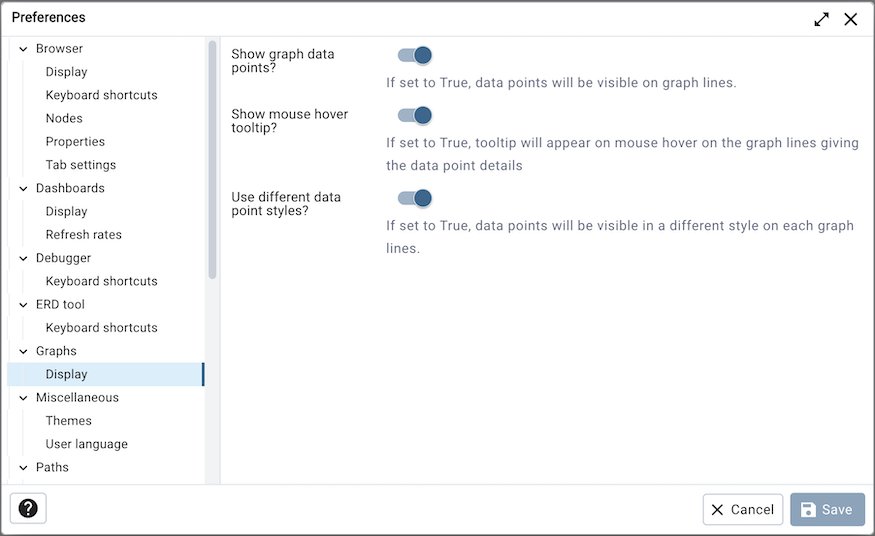
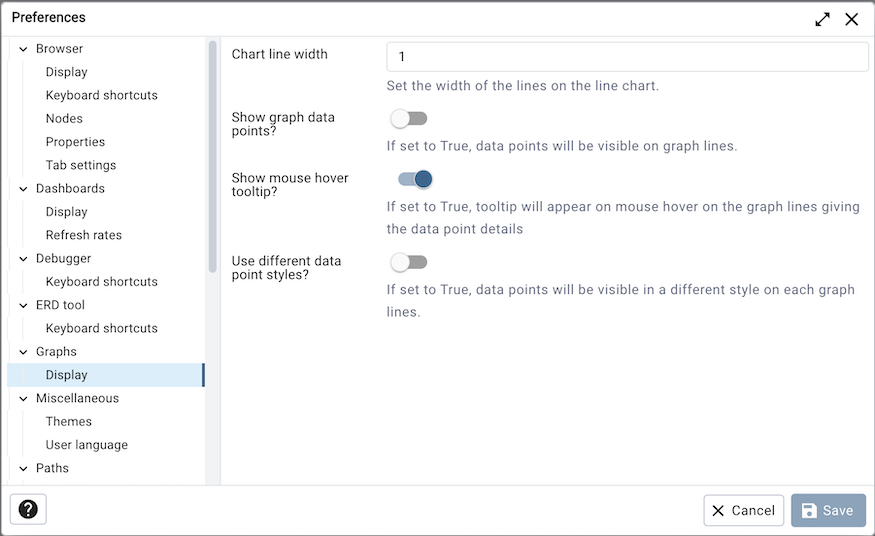
The following issues were fixed in Graph Visualiser:
1) Allow the user to set the row limit and chart line width.
2) Zoom should only be applied to X-axis, not both.
3) On clicking the 'Generate' button, the chart should return to its original zoom level.
4) Negative values are not displayed.

refs #7485

diff --git a/web/pgadmin/tools/sqleditor/static/js/components/sections/GraphVisualiser.jsx b/web/pgadmin/tools/sqleditor/static/js/components/sections/GraphVisualiser.jsx
@@ -69,12 +69,16 @@ function GenerateGraph({graphType, graphData, ...props}) {
   let showDataPoints = queryToolCtx.preferences.graphs['graph_data_points'];
   let useDiffPointStyle = queryToolCtx.preferences.graphs['use_diff_point_style'];
   let showToolTip = queryToolCtx.preferences.graphs['graph_mouse_track'];
+  let lineBorderWidth = queryToolCtx.preferences.graphs['graph_line_border_width'];
 
   // Below options are used by chartjs while rendering the graph
   const options = useMemo(()=>({
     elements: {
       point: {
         radius: showDataPoints ? DATA_POINT_SIZE : 0,
+      },
+      line: {
+        borderWidth: lineBorderWidth,
       },
     },
     plugins: {
@@ -100,7 +104,7 @@ function GenerateGraph({graphType, graphData, ...props}) {
             borderWidth: 1,
             backgroundColor: 'rgba(54, 162, 235, 0.3)'
           },
-          mode: 'xy',
+          mode: 'x',
         },
       }
     },
@@ -249,12 +253,16 @@ export function GraphVisualiser({initColumns}) {
   const onGenerate = async ()=>{
     setLoaderText(gettext('Fetching all the records...'));
 
+    onResetZoom();
+
     let url = url_for('sqleditor.fetch_all_from_start', {
-      'trans_id': queryToolCtx.params.trans_id
+      'trans_id': queryToolCtx.params.trans_id,
+      'limit': queryToolCtx.preferences.sqleditor.row_limit
     });
 
     let res = await queryToolCtx.api.get(url);
 
+    setLoaderText(gettext('Rendering data points...'));
     // Set the Graph Data
     setGraphData(
       getGraphDataSet(res.data.data.result, columns, xaxis, yaxis, queryToolCtx)
@@ -265,7 +273,7 @@ export function GraphVisualiser({initColumns}) {
 
   // Reset the zoom to normal
   const onResetZoom = ()=> {
-    chartObjRef.current.resetZoom();
+    chartObjRef?.current?.resetZoom();
   };
 
   // Download button callback

diff --git a/web/pgadmin/dashboard/static/js/Graphs.jsx b/web/pgadmin/dashboard/static/js/Graphs.jsx
@@ -233,6 +233,7 @@ export default function Graphs({preferences, sid, did, pageVisible, enablePoll=t
           errorMsg={errorMsg}
           showTooltip={preferences['graph_mouse_track']}
           showDataPoints={preferences['graph_data_points']}
+          lineBorderWidth={preferences['graph_line_border_width']}
           isDatabase={did > 0}
         />
       }
@@ -265,6 +266,9 @@ export function GraphsWrapper(props) {
       point: {
         radius: props.showDataPoints ? DATA_POINT_SIZE : 0,
       },
+      line: {
+        borderWidth: props.lineBorderWidth,
+      },
     },
     plugins: {
       legend: {
@@ -289,8 +293,11 @@ export function GraphsWrapper(props) {
       x: {
         reverse: true,
       },
+      y: {
+        min: 0,
+      }
     },
-  }), [props.showTooltip, props.showDataPoints]);
+  }), [props.showTooltip, props.showDataPoints, props.lineBorderWidth]);
   const updateOptions = useMemo(()=>({duration: 0}), []);
 
   const onInitCallback = useCallback(
@@ -353,5 +360,6 @@ GraphsWrapper.propTypes = {
   errorMsg: PropTypes.string,
   showTooltip: PropTypes.bool.isRequired,
   showDataPoints: PropTypes.bool.isRequired,
+  lineBorderWidth: PropTypes.number.isRequired,
   isDatabase: PropTypes.bool.isRequired,
 };

diff --git a/web/regression/javascript/dashboard/graphs_spec.js b/web/regression/javascript/dashboard/graphs_spec.js
@@ -109,6 +109,7 @@ describe('Graphs.js', ()=>{
         show_graphs: true,
         graph_data_points: true,
         graph_mouse_track: true,
+        graph_line_border_width: 2
       };
 
       graphComp = mount(<Graphs preferences={dashboardPref} sid={sid} did={did} enablePoll={false} pageVisible={true} />);
@@ -137,6 +138,7 @@ describe('Graphs.js', ()=>{
         show_graphs: true,
         graph_data_points: true,
         graph_mouse_track: true,
+        graph_line_border_width: 2
       };
       graphComp.setProps({preferences: dashboardPref});
       let found = graphComp.find('[data-testid="graph-poll-delay"]');

diff --git a/web/pgadmin/static/js/chartjs/index.jsx b/web/pgadmin/static/js/chartjs/index.jsx
@@ -47,7 +47,6 @@ const defaultOptions = {
   elements: {
     line: {
       tension: 0,
-      borderWidth: 2,
       fill: false,
     },
   },
@@ -66,7 +65,6 @@ const defaultOptions = {
       },
     },
     y: {
-      min: 0,
       ticks: {
         callback: function(label) {
           if (Math.floor(label) === label) {

diff --git a/web/regression/javascript/dashboard/graphs_wrapper_spec.js b/web/regression/javascript/dashboard/graphs_wrapper_spec.js
@@ -34,6 +34,7 @@ describe('<GraphsWrapper /> component', ()=>{
       errorMsg={null}
       showTooltip={true}
       showDataPoints={true}
+      lineBorderWidth={2}
       isDatabase={false} />);
   });
 

diff --git a/web/pgadmin/tools/sqleditor/utils/query_tool_preferences.py b/web/pgadmin/tools/sqleditor/utils/query_tool_preferences.py
@@ -12,7 +12,7 @@ from flask_babel import gettext
 from pgadmin.utils.constants import PREF_LABEL_DISPLAY,\
     PREF_LABEL_KEYBOARD_SHORTCUTS, PREF_LABEL_EXPLAIN, PREF_LABEL_OPTIONS,\
     PREF_LABEL_EDITOR, PREF_LABEL_CSV_TXT, PREF_LABEL_RESULTS_GRID,\
-    PREF_LABEL_SQL_FORMATTING
+    PREF_LABEL_SQL_FORMATTING, PREF_LABEL_GRAPH_VISUALISER
 from pgadmin.utils import SHORTCUT_FIELDS as shortcut_fields, \
     ACCESSKEY_FIELDS as accesskey_fields
 
@@ -805,4 +805,14 @@ def register_query_tool_preferences(self):
             'Specifies whether or not to insert spaces instead of tabs '
             'when the tab key or auto-indent are used.'
         )
+    )
+
+    self.row_limit = self.preference.register(
+        'graph_visualiser', 'row_limit',
+        gettext("Row Limit"), 'integer',
+        10000, min_val=1, category_label=PREF_LABEL_GRAPH_VISUALISER,
+        help_str=gettext('This setting specifies the maximum number of rows '
+                         'that will be plotted on a chart. Increasing this '
+                         'limit may impact performance if charts are plotted '
+                         'with very high numbers of rows.')
     )

diff --git a/web/pgadmin/tools/sqleditor/__init__.py b/web/pgadmin/tools/sqleditor/__init__.py
@@ -1089,11 +1089,11 @@ def fetch(trans_id, fetch_all=None):
 
 
 @blueprint.route(
-    '/fetch_all_from_start/<int:trans_id>', methods=["GET"],
+    '/fetch_all_from_start/<int:trans_id>/<int:limit>', methods=["GET"],
     endpoint='fetch_all_from_start'
 )
 @login_required
-def fetch_all_from_start(trans_id):
+def fetch_all_from_start(trans_id, limit=-1):
     """
     This function is used to fetch all the records from start and reset
     the cursor back to it's previous position.
@@ -1111,7 +1111,7 @@ def fetch_all_from_start(trans_id):
         # Reset the cursor to start to fetch all the records.
         conn.reset_cursor_at(0)
 
-        status, result = conn.async_fetchmany_2darray(-1)
+        status, result = conn.async_fetchmany_2darray(limit)
         if not status:
             status = 'Error'
         else:

diff --git a/web/pgadmin/dashboard/__init__.py b/web/pgadmin/dashboard/__init__.py
@@ -174,6 +174,14 @@ class DashboardModule(PgAdminModule):
                              'details')
         )
 
+        self.graph_line_border_width = self.graphs_preference.register(
+            'graphs', 'graph_line_border_width',
+            gettext("Chart line width"), 'integer',
+            1, min_val=1, max_val=10,
+            category_label=PREF_LABEL_DISPLAY,
+            help_str=gettext('Set the width of the lines on the line chart.')
+        )
+
     def get_exposed_url_endpoints(self):
         """
         Returns:

diff --git a/web/pgadmin/utils/constants.py b/web/pgadmin/utils/constants.py
@@ -26,6 +26,7 @@ PREF_LABEL_RESULTS_GRID = gettext('Results grid')
 PREF_LABEL_SQL_FORMATTING = gettext('SQL formatting')
 PREF_LABEL_TABS_SETTINGS = gettext('Tab settings')
 PREF_LABEL_REFRESH_RATES = gettext('Refresh rates')
+PREF_LABEL_GRAPH_VISUALISER = gettext('Graph Visualiser')
 
 PGADMIN_STRING_SEPARATOR = '_$PGADMIN$_'
 PGADMIN_NODE = 'pgadmin.node.%s'

diff --git a/docs/en_US/preferences.rst b/docs/en_US/preferences.rst
@@ -201,6 +201,9 @@ Expand the *Graphs* node to specify your Graphs display preferences.
     :alt: Preferences dialog dashboard graph options
     :align: center
 
+* Use the *Chart line width* field to specify the width of the lines on the
+  line chart.
+
 * When the *Show graph data points?* switch is set to *True*, data points will
   be visible on graph lines.
 
@@ -368,6 +371,16 @@ a graphical EXPLAIN.
 
 * When the *Verbose output?* switch is set to *True*, graphical explain details
   will include extended information about the query execution plan.
+
+.. image:: images/preferences_graph_visualiser.png
+    :alt: Preferences dialog sqleditor graph visualiser section
+    :align: center
+
+Use the fields on the *Graph Visualiser* panel to specify the settings
+related to graphs.
+
+* Use the *Row Limit* field to specify the maximum number of rows that will
+  be plotted on a chart.
 
 .. image:: images/preferences_sql_options.png
     :alt: Preferences dialog sqleditor options section
